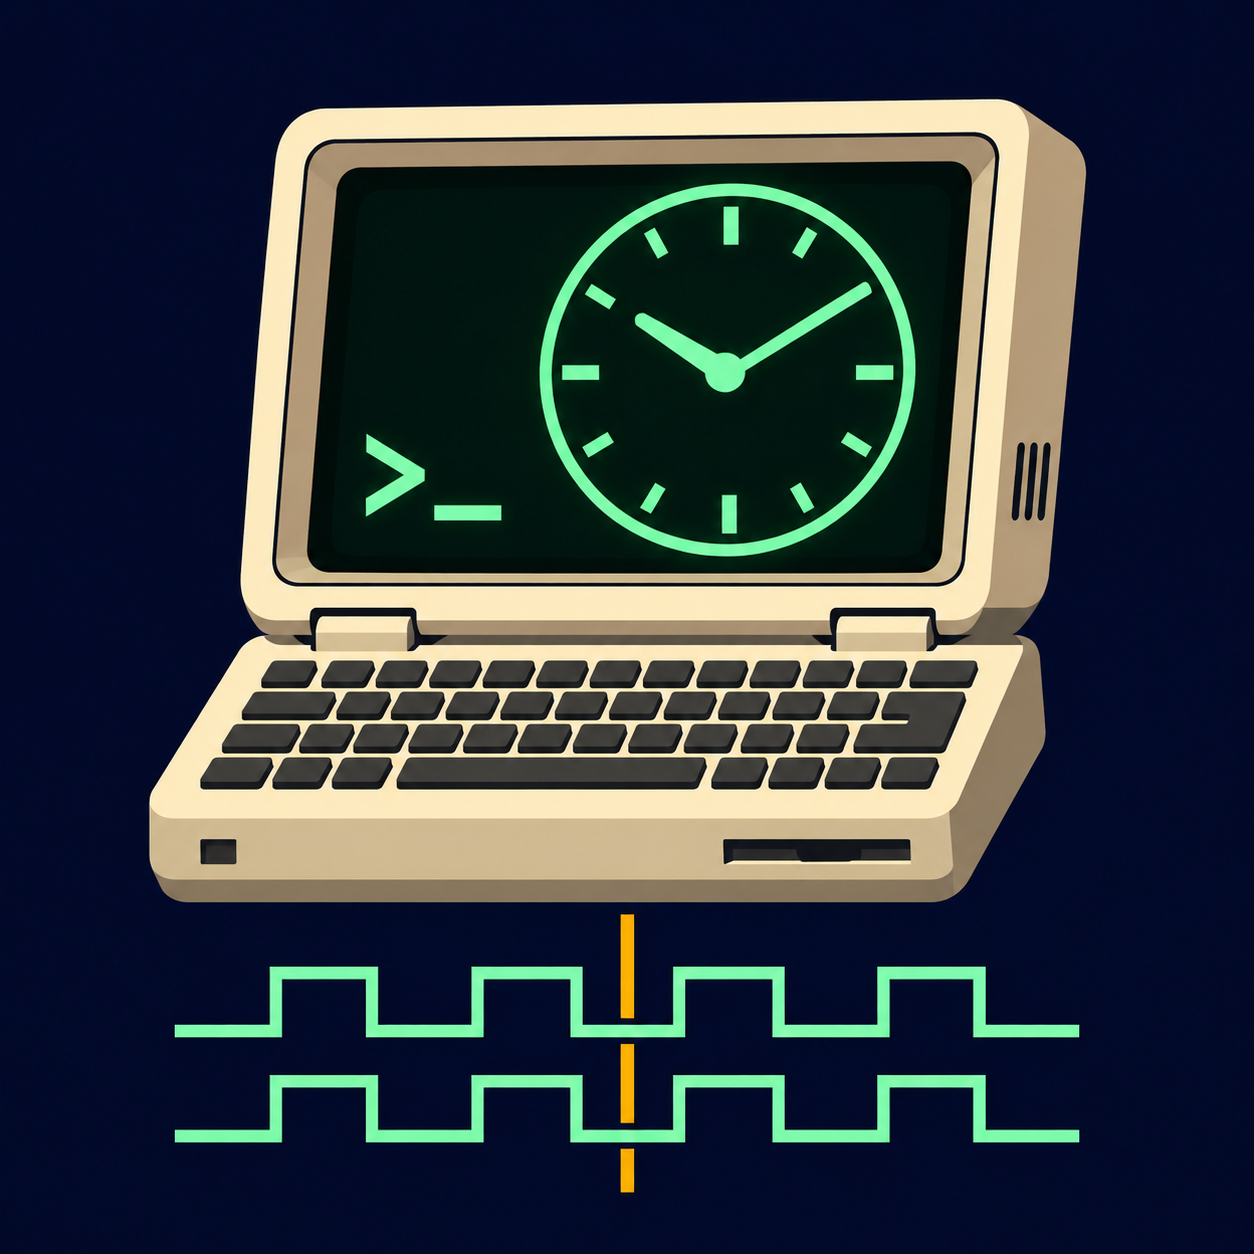
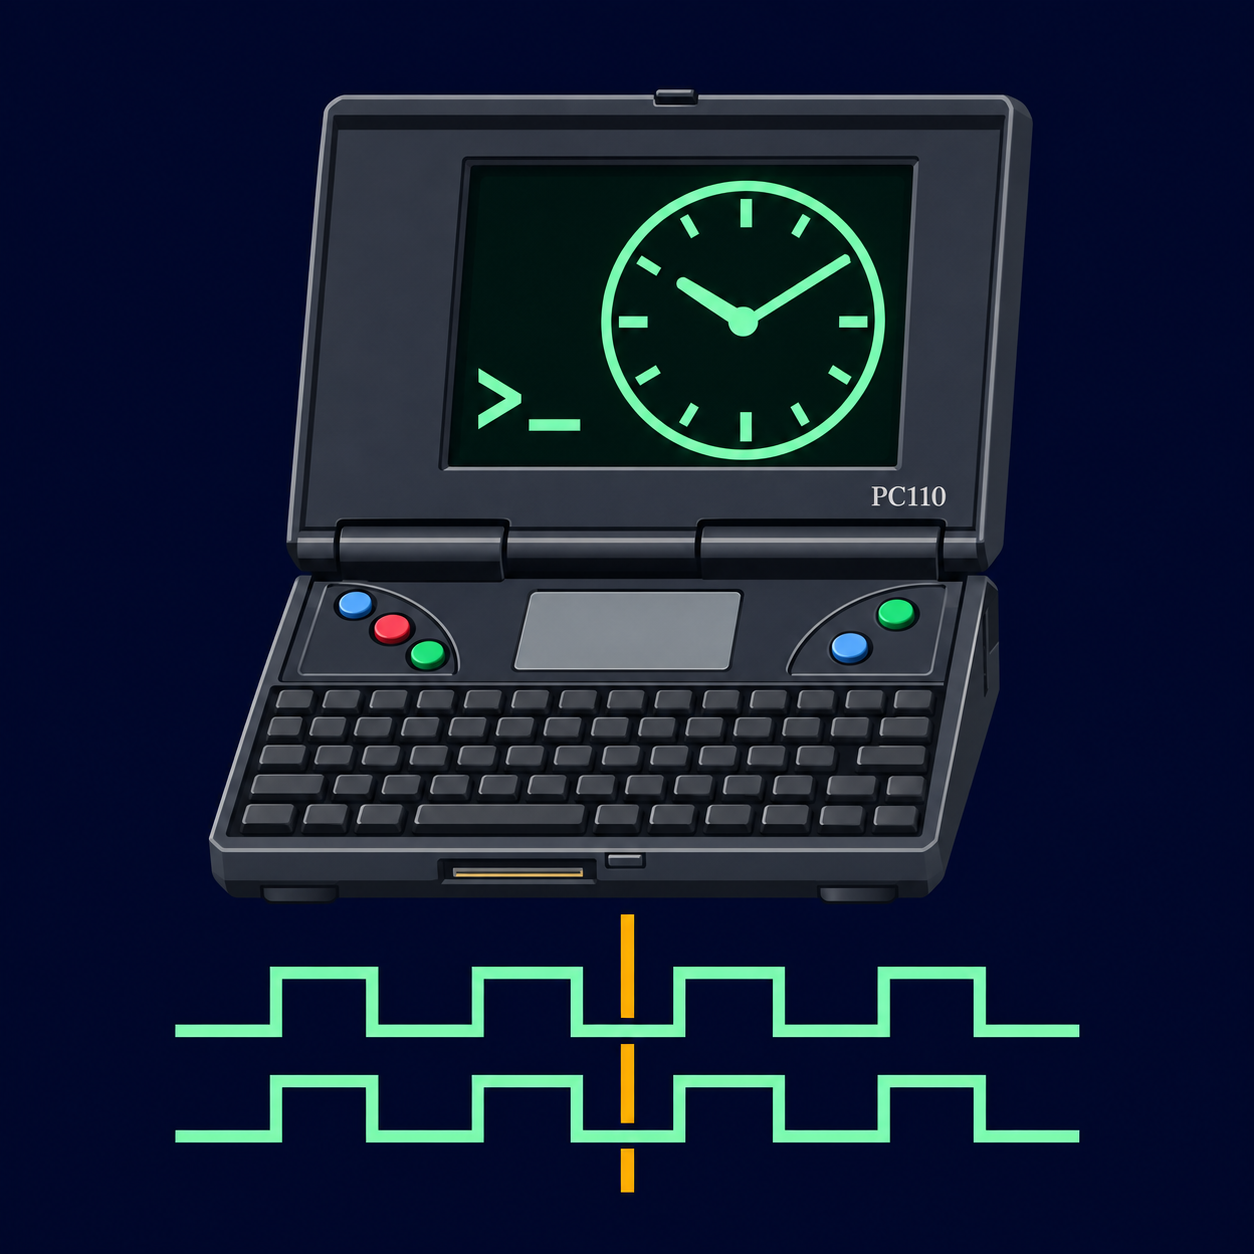
Show the PC110 in project artwork and hardware photos

diff --git a/README.md b/README.md
@@ -1,4 +1,4 @@
-<img src="docs/branding/ptp4d-icon.png" alt="PTP4D: a retro DOS computer with a clock and synchronized pulses" width="144" height="144" align="right">
+<img src="docs/branding/ptp4d-icon.png" alt="PTP4D: an IBM PC110 with a clock and synchronized pulses" width="144" height="144" align="right">
 
 # PTP4D: PTP for DOS
 
@@ -8,9 +8,9 @@
 
 The first working setup is an IBM PC110 running MS-DOS 6.22. PTP4D configures and monitors the TimeStick's on-device PI servo, while the TimeStick exchanges hardware-timestamped PTP messages over Ethernet. The DOS system clock is unchanged.
 
-![PTP4D running on a real IBM PC110, captured through a Lantronix KVM](docs/screenshots/ptp4d-live.png)
+![PTP4D running on the IBM PC110's built-in display](docs/photos/pc110-running-ptp4d.png)
 
-*Actual PC110 display during continuous synchronization. The screenshot is an unedited capture of the Lantronix console, not an emulated or reconstructed terminal.*
+*PTP4D on the PC110's own display during convergence, showing the measured offset, path delay, and frequency correction.*
 
 ## What works
 
@@ -23,6 +23,10 @@ The first working setup is an IBM PC110 running MS-DOS 6.22. PTP4D configures an
 - A Linux TimeStick grandmaster controller and an optional SSH/COMrade pair controller.
 
 The DOS program configures a **PI (proportional-integral) servo inside the TimeStick firmware**. It does not implement a separate DOS-side servo or timestamp packets using the PC110 CPU.
+
+![PTP4D running on a real IBM PC110, captured through a Lantronix KVM](docs/screenshots/ptp4d-live.png)
+
+*Actual PC110 display during continuous synchronization. The screenshot is an unedited capture of the Lantronix console, not an emulated or reconstructed terminal.*
 
 ## Hardware path
 
